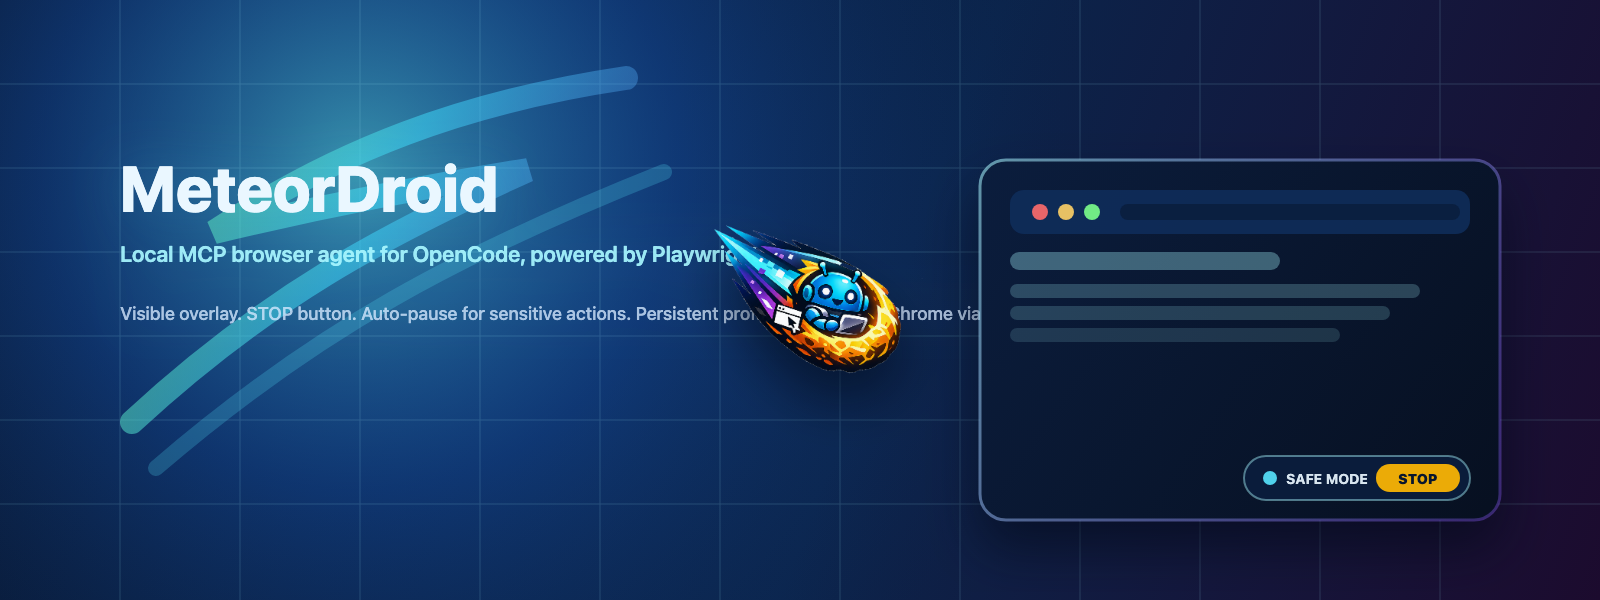
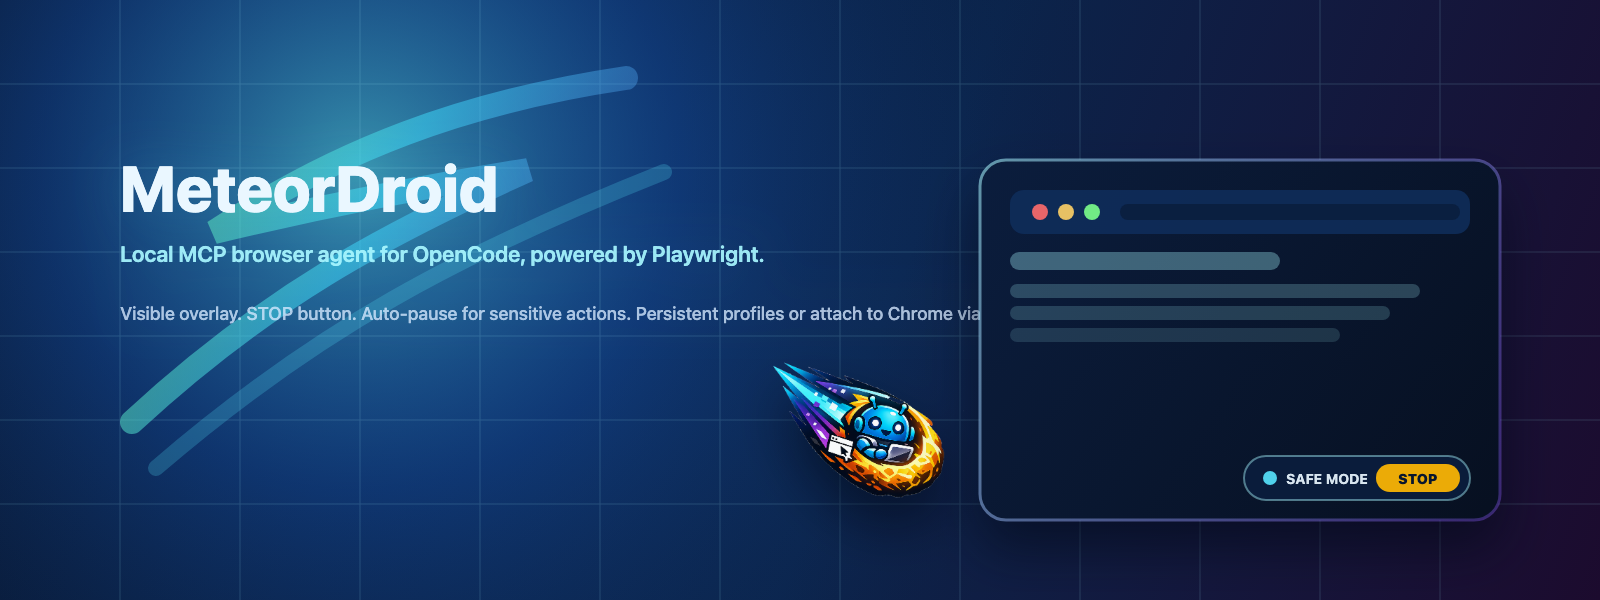
docs: add quick install and fix hero overlap

Changed region(s): [[0.4375, 0.39, 0.5938, 0.84]]

diff --git a/README.md b/README.md
@@ -13,7 +13,7 @@
 </p>
 
 <p align="center">
-  <a href="#quick-start"><img alt="Quick start" src="https://img.shields.io/badge/docs-quick%20start-6680FF?style=flat" /></a>
+  <a href="#quick-install"><img alt="Quick install" src="https://img.shields.io/badge/docs-quick%20install-6680FF?style=flat" /></a>
   <img alt="Node" src="https://img.shields.io/badge/node-%3E%3D18.17-339933?style=flat&logo=node.js&logoColor=white" />
   <img alt="Playwright" src="https://img.shields.io/badge/playwright-chromium-2EAD33?style=flat&logo=playwright&logoColor=white" />
   <a href="LICENSE"><img alt="License" src="https://img.shields.io/badge/license-MIT-8B5CFF?style=flat" /></a>
@@ -21,9 +21,31 @@
 
 ```text
 OpenCode  --MCP/stdio-->  MeteorDroid (this repo)  --Playwright-->  Chromium
-                               |                              |
-                               |                              + Visible safety overlay + STOP
-                               + Auto-pause + human handoff on sensitive steps
+                                |                              |
+                                |                              + Visible safety overlay + STOP
+                                + Auto-pause + human handoff on sensitive steps
+```
+
+## Quick Install
+
+MeteorDroid is a standard **MCP stdio server**, so it works with OpenCode and any other MCP host that can spawn a local command over stdio.
+
+```bash
+git clone <this-repo-url>
+cd MeteorDroid
+npm install
+```
+
+Entry point for MCP hosts:
+
+```jsonc
+{
+  "command": ["npx", "tsx", "/abs/path/to/MeteorDroid/src/server.ts"],
+  "environment": {
+    "MINI_COMET_MODE": "persistent",
+    "MINI_COMET_PROFILE_DIR": "/Users/you/.minicomet/profile"
+  }
+}
 ```
 
 ## Why MeteorDroid?
